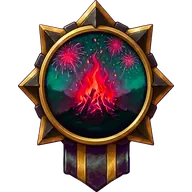
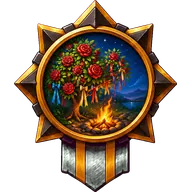
2.207.0: графика турецкого курса
Claude-Session: https://claude.ai/code/session_012FoTdB5qAwJN693kz9isgV

diff --git a/src/content/changelog.ts b/src/content/changelog.ts
@@ -7,6 +7,11 @@ export interface Release {
 // Новые версии сверху. Версия первой записи должна совпадать с package.json (проверяется тестом).
 export const CHANGELOG: Release[] = [
   {
+    version: '2.207.0',
+    date: '2026-10-16',
+    notes: ['Турецкий курс (пока закрыт): своя графика. Рисованные портреты 20 жителей эгейского города, Летописца, стражей и кузнеца Ахмета-уста, медальон меню с алым глазом и полумесяцем (золотой после Эликсира) и рисованные медали праздников: розовый куст с ленточками желаний и воздушный змей.'],
+  },
+  {
     version: '2.206.0',
     date: '2026-10-15',
     notes: ['Турецкий курс (пока закрыт): два праздника. В неделю Хыдырэллеза (начало мая) Нермин-ханым зовёт в сад: ленточка на ветке розы, желание, кольцо в кувшин и костёр. В неделю 23 апреля учительница Элиф приглашает на Детский праздник: Эфе на день становится директором школы, потом халай и воздушные змеи. У каждого праздника 12–13 слов, 8 фраз, миссия и тайная медаль.'],

diff --git a/src/components/NavBar.tsx b/src/components/NavBar.tsx
@@ -7,6 +7,8 @@ import eyeEsGold from '../assets/nav/eye-es-gold.webp';
 import eyeItGold from '../assets/nav/eye-it-gold.webp';
 import eyeEn from '../assets/nav/eye-en.webp';
 import eyeEnGold from '../assets/nav/eye-en-gold.webp';
+import eyeTr from '../assets/nav/eye-tr.webp';
+import eyeTrGold from '../assets/nav/eye-tr-gold.webp';
 import { LANG, type Lang } from '../lang';
 import { useSphinx } from '../store/sphinx';
 
@@ -27,6 +29,7 @@ const EYES: Partial<Record<Lang, { plain: string; gold: string }>> = {
   es: { plain: eyeEs, gold: eyeEsGold },
   it: { plain: eyeIt, gold: eyeItGold },
   en: { plain: eyeEn, gold: eyeEnGold },
+  tr: { plain: eyeTr, gold: eyeTrGold },
 };
 /** Медальон языка курса; после Эликсира — золотой (задача 8.3). Курс без своего медальона берёт испанский. */
 export const eyeOf = (gold: boolean) => (EYES[LANG] ?? EYES.es!)[gold ? 'gold' : 'plain'];

diff --git a/tests/e2e/story-tr.spec.ts b/tests/e2e/story-tr.spec.ts
@@ -344,3 +344,11 @@ for (const [id, day] of [
     await expect(page.getByTestId('festival-medal')).toContainText('получена');
   });
 }
+
+test('tr: свой медальон в меню и рисованные портреты жителей', async ({ page }) => {
+  await openCourse(page, 'tr');
+  await page.goto('./#/grammar');
+  await expect(page.getByTestId('nav-eye')).toHaveAttribute('src', /eye-tr(?!-gold)/);
+  await page.goto(`./#/scene/${encodeURIComponent('sc:cafe.1')}`);
+  await expect(page.getByTestId('npc-art').first()).toHaveAttribute('src', /hasan/);
+});

diff --git a/scripts/build-medal-art.py b/scripts/build-medal-art.py
@@ -1,6 +1,6 @@
 """Медали (промты — `docs/design/medals-prompt.md`): оправы ступеней `docs/design/medal-frames.png`, эмблемы линий
 `docs/design/medal-emblems.png` и тайные медали `docs/design/medal-secrets.png`, праздники английского курса —
-`docs/design/medal-secrets-en.png`.
+`docs/design/medal-secrets-en.png`, турецкого — `docs/design/medal-secrets-tr.png`.
 
 Листы нарисованы на пурпурном фоне (#FF00FF) сеткой: каждая медаль в своей ячейке (искры у книги и молнии — отдельные
 пятна, поэтому делим по ячейкам, а не по связным областям). Скрипт снимает фон и сохраняет в `src/assets/medals/`
@@ -27,6 +27,7 @@ LINES = ['words', 'streak', 'grammar', 'cartographer', 'friend', 'courier', 'bli
 SECRETS = ['saved-streak', 'flawless', 'midnight', 'labyrinth', 'sphinx', 'keeper',
            'festival-sanfermin', 'festival-tomatina', 'festival-ferragosto', 'festival-carnevale']
 SECRETS_EN = ['festival-bonfire', 'festival-carnival']
+SECRETS_TR = ['festival-hidrellez', 'festival-nisan']
 
 
 def keyed(path: Path):
@@ -100,6 +101,9 @@ def main():
         square(piece, by_height=True)[0].save(OUT / f'secret-{sid}.webp', 'WEBP', quality=80, method=6)
     # Праздники английского курса (2.186.0) — свой лист из двух медалей.
     for sid, piece in zip(SECRETS_EN, cells(DESIGN / 'medal-secrets-en.png', 2, 1)):
+        square(piece, by_height=True)[0].save(OUT / f'secret-{sid}.webp', 'WEBP', quality=80, method=6)
+    # Праздники турецкого курса (2.207.0).
+    for sid, piece in zip(SECRETS_TR, cells(DESIGN / 'medal-secrets-tr.png', 2, 1)):
         square(piece, by_height=True)[0].save(OUT / f'secret-{sid}.webp', 'WEBP', quality=80, method=6)
     print(json.dumps(frames))
 

diff --git a/scripts/cut-portraits.py b/scripts/cut-portraits.py
@@ -1,8 +1,8 @@
 """
 Портреты персонажей из листов docs/design/portraits-<язык>.jpg: 20 жителей мест, Летописец, четыре стража
-и кузнец. Испанский лист — версия 2.62.0, итальянский — 2.82.0, английский — 2.186.0. Вырезается внутренняя часть каждой рамки,
+и кузнец. Испанский лист — версия 2.62.0, итальянский — 2.82.0, английский — 2.186.0, турецкий — 2.207.0. Вырезается внутренняя часть каждой рамки,
 без золотой обводки и таблички с именем, в пропорциях игрового портрета 14:18, размер 168×216.
-Запуск: python3 scripts/cut-portraits.py [es|it|en] (без аргумента — все языки, нужен Pillow).
+Запуск: python3 scripts/cut-portraits.py [es|it|en|tr] (без аргумента — все языки, нужен Pillow).
 """
 from PIL import Image
 import os, sys
@@ -36,9 +36,17 @@ SHEETS={
     small_x=[(63,195),(222,350),(378,505),(530,657),(684,808),(836,962)],
     small_y=(1318,1455),
   ),
+  'tr':dict(
+    cols=[(122,283),(335,494),(540,700),(745,905)],
+    rows=[(68,238),(310,480),(555,725),(795,970),(1040,1218)],
+    names=[['hasan','fatma','mehmet','kemal'],['nermin','riza','selin','zeynep'],['elif','cemil','murat','yusuf'],
+           ['deniz','ismail','can','ebru'],['leyla','gul','burak','nihat']],
+    small_x=[(97,228),(252,367),(400,505),(533,643),(667,778),(808,930)],
+    small_y=(1290,1432),
+  ),
 }
 # Сдвиг центра по x для отдельных портретов, если лицо не по центру рамки.
-SHIFT={'es':{},'it':{},'en':{}}
+SHIFT={'es':{},'it':{},'en':{},'tr':{}}
 
 def cut(lang):
     s=SHEETS[lang]

diff --git a/scripts/build-nav-art.py b/scripts/build-nav-art.py
@@ -117,3 +117,5 @@ if __name__ == '__main__':
     eyes('nav-wow-eyes.png', ['eye-es', 'eye-it', 'eye-es-gold', 'eye-it-gold'])
     # Английский (2.186.0) — свой лист из двух медальонов: обычный и золотой.
     eyes('nav-wow-eyes-en.png', ['eye-en', 'eye-en-gold'])
+    # Турецкий (2.207.0) — тоже свой лист.
+    eyes('nav-wow-eyes-tr.png', ['eye-tr', 'eye-tr-gold'])

diff --git a/CLAUDE.md b/CLAUDE.md
@@ -27,7 +27,7 @@ React 19, Vite 8 (rolldown), TypeScript, Tailwind v4, Zustand, Dexie (IndexedDB)
 ## Устройство
 
 - `src/lang.ts` — язык курса (`es` | `it` | `en` | `tr`, `LANG_IDS`) и его свойства `L` / `LANGS`, собранные из профилей (задача 16.6). Закрытый курс (`released: false` в профиле: английский с 2.169.0 по 2.184.0, задачи 17.1–17.9, с 2.185.0 открыт; турецкий с 2.187.0, этап 18) не виден в выборе языка и в предложении второго языка (`RELEASED_LANGS`), тесты полноты контента его пропускают. Профиль — `src/langs/<язык>/index.ts` (`LangProfile` в `src/langs/types.ts`, реестр `PROFILES` в `src/langs/index.ts`): голоса, база, `variety` — какой вариант языка в курсе (испанский — язык Испании с vosotros; переключатель на латиноамериканский убран в 2.148.0, задача 12.7), артикли, род (`gender`; без рода у существительного не нужен `gender`) и проверка артикля по роду `articleIssue`, буквы с диакритикой `letters`, отдельные буквы `distinct` (турецкие ı и İ: замена на латинскую в ответе — ошибка, а не «почти»), строчные по правилам языка `lower` (турецкое I → ı, İ → i: `lowerText`, `normalizeIn` в `answer.ts`), клавиши испытаний `examKeys`, правила склейки ответа `answerRules`, сокращения `contractions` (английское «don't» = «do not»: `expandContractions` в `normalize` и в `tokens` скриптов), равноправное написание `spelling` (британское и американское: сравнение ответов идёт через `canon` в `answer.ts`, только своего языка), ошибки текста для валидатора `textIssues` (английские a/an), разбор словоформы на леммы `analyze` (турецкий: `src/langs/tr/morph.ts` — гармония гласных, озвончение, формы имени и глагола, разбор аффиксов по позициям), кузница `verbs` (времена с уроком открытия, лица, генератор форм — `src/langs/<язык>/verbs.ts`, допустимые поля глагола), виды Звонницы `pairKinds`, праздники с правилом недели, обращение к путнику `hero`, признаки «ты/вы» `you`, подписи районов, фразы проверки голоса, `heroKey`, `reminderBase`. Профиль — данные и чистые функции, из `src/domain` и `src/content` только типы (иначе циклы через `lang.ts`). Проверка полноты — `src/langs/profile.test.ts`. Картинки по языку и виртуальные модули остаются у компонентов. Язык читается из `localStorage['eslacity.lang']` при запуске, смена языка перезагружает приложение.
-- `src/content/<язык>/words/<локация>.json` — слова (поле `es` исторически означает «форма на изучаемом языке» для любого языка). `src/content/<язык>/grammar/<район>/*.json` — уроки. У каждого упражнения постоянный `id` вида `<lessonId>.<n>`: новым упражнениям его проставляет `npx tsx scripts/add-exercise-ids.ts`, существующие id не менять. `src/content/<язык>/npcs.json` — жители мест (по одному на место, свои в каждом языке, `src/content/npcs.ts`), портрет рисуется кодом из поля `look` (`src/components/npcArt.ts`), а если в `look` есть `portrait` — рисованной картинкой `src/assets/portraits/<язык>/<portrait>.webp` (`NpcPortrait`, `portraitUrl`; на картах города и странствий всегда пиксельная фигурка, `pixel`). Портреты всех трёх языков режет `scripts/cut-portraits.py` из `docs/design/portraits-<язык>.jpg` (координаты рамок у каждого листа свои, промты — `docs/design/portraits-<язык>-prompt.md`), наличие картинки проверяет `validatePortraits`. `src/content/<язык>/scrolls/<глава>.json` — свитки земель, общие слова главы без места (id `scroll1.<slug>`, грузятся как «место» `scroll1`, в индексе `SCROLL_WORDS`). `src/content/<язык>/chronicler.json` — Летописец, житель без места: просит учить слова свитка на карте странствий, его поручения — слова свитков (`npcFor`, `SCROLL_PLACE`). `src/content/<язык>/phrases/<место>.json` — готовые фразы ситуации для миссий: id `ph:<место>.<slug>`, необязательные слова в скобках (`src/domain/phrase.ts`), в словарный запас не входят; валидатор проверяет, что слова фразы есть в словаре мест того же уровня или ниже (леммы из `scripts/data`, `uncoveredWords` в `scripts/vocab-lib.ts`). Схема: `src/content/schema.ts`. Закрытый курс (`released: false`; так писался английский, дальше — турецкий и португальский) валидатор проверяет по готовым файлам (`partialChecks` в `scripts/validate-content.ts`: жители, Летописец, стражи пяти глав, кузница, Звонница, портреты, тексты, а с 17.3 и слова мест и свитков — `partialWordChecks`: поля, редкие слова, CEFR, одинаковые переводы, с 17.5 — фразы, сцены, миссии и развилки, `partialStoryChecks`: развилок не меньше двух требуют только главы, у которых уже есть миссии следующей главы; с 17.8 — письма и записки в обоих родах путника и Сфинкс, `letterChecks` и `sphinxChecks`, с 17.9 — пролог и нить глав в обоих родах, книги, слухи, дневник и праздники, `prologueChecks`, `threadChecks`, `bookChecks`, `rumorDiaryChecks`, `partialFestivalChecks`, если файлы есть); отчёт `npm run vocab` для курса без уроков считает покрытие одними словами. Валидатор: `src/content/validate/` (с 2.166.0, задача 16.5: файл на вид контента — `words.ts`, `grammar.ts`, `scenes.ts`, `missions.ts`, `sphinx.ts`…, общее — `common.ts`, вход — `index.ts`) и `scripts/validate-content.ts`. Файлы контента всех видов и языков — в реестре `src/content/registry.ts` (`loaders(вид)` — ключ файла → загрузчик языка курса, `loader(вид, ключ)`, `eager(вид)` для маленьких файлов в основном чанке); загрузчики своих `import.meta.glob` не заводят, новый вид или язык — строка в реестре.
+- `src/content/<язык>/words/<локация>.json` — слова (поле `es` исторически означает «форма на изучаемом языке» для любого языка). `src/content/<язык>/grammar/<район>/*.json` — уроки. У каждого упражнения постоянный `id` вида `<lessonId>.<n>`: новым упражнениям его проставляет `npx tsx scripts/add-exercise-ids.ts`, существующие id не менять. `src/content/<язык>/npcs.json` — жители мест (по одному на место, свои в каждом языке, `src/content/npcs.ts`), портрет рисуется кодом из поля `look` (`src/components/npcArt.ts`), а если в `look` есть `portrait` — рисованной картинкой `src/assets/portraits/<язык>/<portrait>.webp` (`NpcPortrait`, `portraitUrl`; на картах города и странствий всегда пиксельная фигурка, `pixel`). Портреты всех языков режет `scripts/cut-portraits.py` из `docs/design/portraits-<язык>.jpg` (координаты рамок у каждого листа свои, промты — `docs/design/portraits-<язык>-prompt.md`), наличие картинки проверяет `validatePortraits`. `src/content/<язык>/scrolls/<глава>.json` — свитки земель, общие слова главы без места (id `scroll1.<slug>`, грузятся как «место» `scroll1`, в индексе `SCROLL_WORDS`). `src/content/<язык>/chronicler.json` — Летописец, житель без места: просит учить слова свитка на карте странствий, его поручения — слова свитков (`npcFor`, `SCROLL_PLACE`). `src/content/<язык>/phrases/<место>.json` — готовые фразы ситуации для миссий: id `ph:<место>.<slug>`, необязательные слова в скобках (`src/domain/phrase.ts`), в словарный запас не входят; валидатор проверяет, что слова фразы есть в словаре мест того же уровня или ниже (леммы из `scripts/data`, `uncoveredWords` в `scripts/vocab-lib.ts`). Схема: `src/content/schema.ts`. Закрытый курс (`released: false`; так писался английский, дальше — турецкий и португальский) валидатор проверяет по готовым файлам (`partialChecks` в `scripts/validate-content.ts`: жители, Летописец, стражи пяти глав, кузница, Звонница, портреты, тексты, а с 17.3 и слова мест и свитков — `partialWordChecks`: поля, редкие слова, CEFR, одинаковые переводы, с 17.5 — фразы, сцены, миссии и развилки, `partialStoryChecks`: развилок не меньше двух требуют только главы, у которых уже есть миссии следующей главы; с 17.8 — письма и записки в обоих родах путника и Сфинкс, `letterChecks` и `sphinxChecks`, с 17.9 — пролог и нить глав в обоих родах, книги, слухи, дневник и праздники, `prologueChecks`, `threadChecks`, `bookChecks`, `rumorDiaryChecks`, `partialFestivalChecks`, если файлы есть); отчёт `npm run vocab` для курса без уроков считает покрытие одними словами. Валидатор: `src/content/validate/` (с 2.166.0, задача 16.5: файл на вид контента — `words.ts`, `grammar.ts`, `scenes.ts`, `missions.ts`, `sphinx.ts`…, общее — `common.ts`, вход — `index.ts`) и `scripts/validate-content.ts`. Файлы контента всех видов и языков — в реестре `src/content/registry.ts` (`loaders(вид)` — ключ файла → загрузчик языка курса, `loader(вид, ключ)`, `eager(вид)` для маленьких файлов в основном чанке); загрузчики своих `import.meta.glob` не заводят, новый вид или язык — строка в реестре.
 - Виды упражнений грамматики (все пять базовых есть в каждом уроке, это требует валидатор): `choose`, `gap`, `truefalse` и продуктивные `build` (собрать предложение из плиток, лишние в `extra`, другой порядок в `alt`) и `type` (вписать форму в `___`, `hint`, `alt`). Проверка — `checkGrammar` в `src/domain/grammar.ts` (форма без ударения — «почти», опечатки не прощаются: `checkForm`), показ — `GrammarItemView` в `src/components/exercises/GrammarItem.tsx`, общий для урока, повторения правил и стражей. Лишняя плитка не должна собирать другую верную фразу, у ввода подсказка снимает второй ответ, равноправные формы — в `alt`; `src/content/grammarProductive.test.ts` проверяет это на всём контенте, `tests/e2e/grammar.spec.ts` проходит каждый урок целиком (английский — `grammar-en.spec.ts`, закрытый турецкий — `grammar-tr.spec.ts`: уроки открываются напрямую, без пролога и города, вход — `openCourse(page, язык)` в фикстурах; сцены и миссии английского — `story-en.spec.ts`, `openEnglish`, турецкого — `story-tr.spec.ts`). Виды уровня C1 (задача 7.3, необязательные): `transform` (пересказ с ключевым словом `keyword`), `cloze` (текст с пропусками, у каждого свой список `answers`), `fix` (найти слово `wrong` и вписать форму), `register` (та же мысль в регистре `to`: выбор `options` или плитки `extra`), `combine` (связать две фразы связкой `connector`), `paraphrase` (выбор того же смысла). Проверка — там же в `checkGrammar`, ввод без букв ответа в испытаниях (`TYPED_KINDS`), валидатор — `checkC1Exercise`. Сквозной `answerGrammar` находит задание по `data-ex`. Район C1 (глава V, задачи 7.4–7.5): 20 уроков `src/content/<язык>/grammar/c1/`, в каждом не меньше трёх видов C1; страж главы V — Хозяин Эха.
 - План словаря: `src/content/vocabPlan.ts` (числа из `docs/GAME.md`). Частотные списки лемм лежат в `scripts/data/` (строит `scripts/build-freq.ts`, у турецкого — `scripts/build-freq-tr.ts` разбором аффиксов по словарю Zemberek; источники и лицензии в шапке файлов), в сборку не попадают. У языка с `analyze` (турецкий) скрипты словаря ищут лемму разбором аффиксов, а не по таблице форм (`lemmaCandidates`, `isKnownWord`, `glossIndex` в `scripts/vocab-lib.ts`; `tokens(text, lang)` — строчные по правилам языка, у турецкого без циркумфлекса: частоты из субтитров пишут hala и hikaye, курс — hâlâ и hikâye; пример слова у такого языка проверяется разбором: kitabı — форма kitap, `checkWord` в `validate/words.ts`). После добавления слов запускать `npm run vocab`, он пересобирает `docs/vocab/<язык>.md`: покрытие, медиана ранга по уровням, доля первой тысячи к концу каждой главы, списки «частые позже главы II» и «редкие на уровнях 1–4» (задача 12.1). Поправки к частотному списку — `scripts/data/skip-<язык>.txt` (`applySkips`, `applySkipsToForms`: шум выбрасывается, ошибки лемматизации сводятся к своей лемме). Слово уровней 1–4 дальше ранга 5000 (`RARE_RANK`, ранг — `wordRank`, у словосочетаний его нет) поднимается на уровень 5–6 или помечается `topical: true`, тематических не больше трёх на урок (`rarityIssues` в `scripts/vocab-lib.ts`; проверка работает для всех мест, ранги — по очищенному списку, как в отчёте). Слова переезжают между уровнями только сменой `level` и `cefr`, id не меняется; уровень 6, где уже есть выученные слова, не закрывается (`isWordLevelOpen`).
 - `vite.config.ts` строит виртуальные модули `virtual:grammar-index` (индекс уроков для карты) и `virtual:word-index/<язык>` (id слов по местам и уровням для пути; с 2.165.0 свой модуль на язык, `src/content/wordIndex.ts` берёт индекс языка курса через `await` на верхнем уровне) и режет уроки на чанки по языку и району. Код по экранам (задача 16.2): в `App.tsx` сразу грузятся только главная и уроки слов и фраз, остальные экраны — `React.lazy` через `screen(...)` с `Suspense` и `Loading`; список изменений `AboutApp` грузит своим чанком. Экран, который нужен главной или сцене главы, не импортируют из другого экрана: общее выносится (`src/lib/chronicle.ts` — нить и книги для бейджа Летописи, `src/components/LandArt.tsx` — рисунки земель). Главный чанк меньше 350 КБ — проверяет `loading.spec.ts`.
@@ -72,7 +72,7 @@ React 19, Vite 8 (rolldown), TypeScript, Tailwind v4, Zustand, Dexie (IndexedDB)
 - Звонница — минимальные пары (задача 10.2): `src/content/<язык>/pairs.json` (звонарь `ringer` того же вида, что кузнец, и противопоставления `contrasts`: `kind` `swap` с полем `swap`, `stress`, `double` или `caps` — английское ударение без знаков: ударный слог заглавными, REcord / reCORD, у обоих слов `say` с окружением «a record» / «to record»; турецкий циркумфлекс hala / hâlâ — вид `stress`; виды языка — `pairKinds` в профиле; пары `[слово, слово]`), загрузка `src/content/pairs.ts`, логика `src/domain/minimalPairs.ts` (`pairTasks`, `pairVerdict`, `retryTask`, `pairIssue`), валидатор `validatePairs` (пара различается ровно тем, что заявлено, не меньше `PAIRS_MIN` пар; общая проверка мастера без места — `checkMaster`). Экран `/bells` (`src/screens/Bells.tsx`), вход — карточка на экране грамматики под кузницей. Без звука (`listeningEnabled`) звонить нельзя. Ответы в журнале — режим `pairs`, id `mp:<противопоставление>.<n>` (`isPairId`, не слово); верные идут в `recordListening` (линия «Слушатель»). Сквозной тест — `bells.spec.ts`.
 - Ответ голосом (задача 10.3): `src/audio/speechInput.ts` (`voiceInputSupported`: есть `SpeechRecognition`, сеть и не APK; `listenAnswer` — до пяти вариантов на языке `recognitionLang`; запрет микрофона прячет кнопку до перезапуска), выбор варианта — `bestAlternative` в `src/domain/voiceAnswer.ts` по проверке задания, кнопка `VoiceAnswer` (`src/components/VoiceAnswer.tsx`, следит за `online`/`offline`). Стоит у ввода в миссии (`HeroTurn`, проверка `answerNode`) и в испытаниях (`TypeAnswer` и `PhraseType` с `exam`). Услышанное только встаёт в поле, проверку запускает игрок. Сквозной тест — `voice.spec.ts` (заглушка `SpeechRecognition`, `setOffline`).
 - Напоминания (задача 10.4): настройки `reminderOn`, `reminderTime`; расписание и текст — `src/domain/reminder.ts` (`reminderSlots`: `REMINDER_DAYS` дней вперёд, сегодня только если цель дня не выполнена; `reminderText` от Летописца), на устройстве — `src/lib/reminder.ts` (`reminderSupport`: `native` | `periodic` | `none`; `enableReminder`, `reminderStatus`, `syncReminder`, `watchReminder` из `bootstrap` пересчитывает расписание при выполненной цели и смене настроек). APK — плагин `@capacitor/local-notifications` (номера уведомлений по языку, значок `ic_stat_eslacity` из `scripts/build-icons.py`, `capacitor.config.ts`). Сайт — `public/reminder-sw.js`, подключён к service worker через workbox `importScripts`: по `periodicsync` читает расписание из кэша `eslacity-reminder` (запись на язык) и показывает наступившее, опоздавшее больше чем на 12 часов пропускает. Раздел «Напоминание» в настройках — `ReminderCard`. Тесты: `src/lib/reminderSw.test.ts` (service worker в песочнице), сквозной `reminder.spec.ts`.
-- Праздники (задача 10.5): `src/domain/festival.ts` (`FESTIVALS` собирается из `festivals` профилей языков: хозяин — здание города, цвета флажков, знак, тайная медаль, неделя `week(year)`; `festivalWeek`: Сан-Фермин 6–14 июля, Томатина вокруг последней среды августа, Феррагосто 12–18 августа, Карнавал — шесть дней до Жирного вторника по Пасхе; английские — Ночь костров 2–8 ноября и карнавал в Ноттинг-Хилле с четверга до среды вокруг последнего понедельника августа; турецкие — Хыдырэллез 2–8 мая и Детский праздник 20–26 апреля, их медали пока собирает из готовых `scripts/build-tr-festival-medals.py`; `activeFestival`, `festivalsDone` — миссия, пройденная в неделю праздника; `placePath`). Контент — `src/content/<язык>/festivals/<id>.json` (`intro`, `about`, `names` — имена собственные для проверки словаря, слова `fest-<id>.<slug>` уровня 1, фразы `ph:fest-<id>.<slug>`, миссия `ms:fest-<id>.2` сложности главы II, `FESTIVAL_CHAPTER`). Праздник — «место» `fest-<id>`: его слова, фразы и миссию находят обычные загрузчики (`content/index.ts`, `phrases.ts`, `missions.ts`), хозяин — `npcFor`. Экран `/festival/:id` (`src/screens/Festival.tsx`), приглашение на главной, флажки и знак на карте, календарь в профиле — `src/components/FestivalBits.tsx`. Тайные медали праздников — в `SECRETS` с полем `lang` (видны только в своём курсе), счётчик `festivals` в `MedalCounters`; картинки английских (с 2.186.0 рисованные) режет `scripts/build-medal-art.py` из своего листа `docs/design/medal-secrets-en.png`. Валидатор `validateFestivals` (общие проверки фраз и миссий с `places`, свой словарь покрытия с праздничными словами). Сквозной тест — `festival.spec.ts` (`page.clock`).
+- Праздники (задача 10.5): `src/domain/festival.ts` (`FESTIVALS` собирается из `festivals` профилей языков: хозяин — здание города, цвета флажков, знак, тайная медаль, неделя `week(year)`; `festivalWeek`: Сан-Фермин 6–14 июля, Томатина вокруг последней среды августа, Феррагосто 12–18 августа, Карнавал — шесть дней до Жирного вторника по Пасхе; английские — Ночь костров 2–8 ноября и карнавал в Ноттинг-Хилле с четверга до среды вокруг последнего понедельника августа; турецкие — Хыдырэллез 2–8 мая и Детский праздник 20–26 апреля; `activeFestival`, `festivalsDone` — миссия, пройденная в неделю праздника; `placePath`). Контент — `src/content/<язык>/festivals/<id>.json` (`intro`, `about`, `names` — имена собственные для проверки словаря, слова `fest-<id>.<slug>` уровня 1, фразы `ph:fest-<id>.<slug>`, миссия `ms:fest-<id>.2` сложности главы II, `FESTIVAL_CHAPTER`). Праздник — «место» `fest-<id>`: его слова, фразы и миссию находят обычные загрузчики (`content/index.ts`, `phrases.ts`, `missions.ts`), хозяин — `npcFor`. Экран `/festival/:id` (`src/screens/Festival.tsx`), приглашение на главной, флажки и знак на карте, календарь в профиле — `src/components/FestivalBits.tsx`. Тайные медали праздников — в `SECRETS` с полем `lang` (видны только в своём курсе), счётчик `festivals` в `MedalCounters`; картинки английских и турецких режет `scripts/build-medal-art.py` из своих листов `docs/design/medal-secrets-en.png` и `medal-secrets-tr.png`. Валидатор `validateFestivals` (общие проверки фраз и миссий с `places`, свой словарь покрытия с праздничными словами). Сквозной тест — `festival.spec.ts` (`page.clock`).
 - Отчёты об ошибках (задача 11.1): таблица `reports` (`ReportRecord`, причины `REPORT_REASONS`, текст для копирования `formatReports` в `src/domain/report.ts`; запись и чтение — `src/db/reports.ts`). Кнопка `ReportButton` (окно в портале на `document.body`: лист итога ответа сдвигается `transform`-ом) стоит в `FeedbackSheet`, если у итога есть `itemId` (его ставят `LessonPlayer`, `PhraseRun`, `RuleReview`, `GrammarLesson`, `TrialPlayer`, кузница, Звонница), в разговоре (`<сцена>#<номер реплики>`) и в миссии (`<миссия>#<узел>`). Новое задание с итогом — сразу с `itemId`. Отчёты в резервной копии (`OPTIONAL`), раздел в настройках — `ReportsCard`. Сквозной тест — `report.spec.ts`.
 - Правила перевода (задача 15.3): `docs/TRANSLATION.md`. `translationIssues` в `src/domain/translation.ts` (из `scripts/validate-content.ts`, по всем файлам контента) сверяет «ты/вы» перевода с оригиналом у каждой пары `es`/`ru` и `fem` (`sourceAddress`, `ruAddress`; решает оригинал, а не `register` жителя) и типографику русских строк (`typographyIssues`: «ёлочки», `NO_YO`). Новый перевод пишется по этим правилам.
 - Вычитка носителем (задача 11.2): `scripts/export-review.ts` выгружает строки на изучаемом языке в `review/<язык>/<вид>.csv` (в git не попадает). Строка выгрузки — `extractRows` в `scripts/review-lib.ts`: поля по `TARGET_KEYS` (у мудрости Сфинкса ещё `title`), русские и служебные ветки — `SKIP_KEYS`, строка с кириллицей без латиницы не выгружается; адрес — `file` и `path` (`getAt`/`setAt`), тест проверяет, что адрес каждой строки ведёт к её тексту. Новые поля контента на изучаемом языке добавлять в `TARGET_KEYS`. Загрузка правок (задача 11.3) — `scripts/import-review.ts`: `fixesFromCsv`, `applyFixes` (правка — только если текст в контенте тот же, что видел носитель), замена точечная по месту строки в тексте файла (`locateStrings`), файлы целиком не переписываются; потом отчёт `review/<язык>/applied-*.md`, валидатор и тесты контента. Инструкция носителю — `docs/REVIEW.md`.
@@ -81,7 +81,7 @@ React 19, Vite 8 (rolldown), TypeScript, Tailwind v4, Zustand, Dexie (IndexedDB)
 - Загрузка и переходы (задача 14.6): пока экран ждёт контент, он возвращает `<Loading />` из `src/components/ui.tsx` (внутри экрана — `inline`), а не `null`; появляется через 250 мс. `Screen` проявляется классом `screen-in` (только прозрачность: `transform` сломал бы `position: fixed` у листа итога), при `prefers-reduced-motion` без анимации. Главная предзагружает место «Продолжить» (`stepPlace` в `next.ts`) и следующий урок грамматики. Сквозной тест — `loading.spec.ts`.
 - Настройки по разделам (задача 14.4): `/settings` — оглавление, `/settings/<раздел>` — экран раздела (`SettingsScreen` в `src/screens/Settings.tsx`). Разделы и порядок — `SETTINGS_SECTIONS` в `src/domain/settingsSections.ts` (`hero`, `learning`, `sound`, `reminder`, `language`, `data`, `app`, `reports`), подпись выбранного под названием — `settingsHint`. Новая настройка встаёт в подходящий раздел (`SECTION_BODY`); сквозные тесты идут прямо в раздел (`goto('./#/settings/<раздел>')`), оглавление проверяет `settings.spec.ts`.
 - Приложение для Android (APK, с 2.113.0): Capacitor (`capacitor.config.ts`, проект `android/`, создан `npx cap add android`), внутри та же сборка `dist/`. Собирает его GitHub Actions задачей `android` параллельно с тестами (`npx cap sync android`, `./gradlew assembleRelease`), задача `package` кладёт его на сайт как `eslacity.apk`; ссылка — раздел «Приложение для Android» в настройках. Локально Android SDK нет (dl.google.com закрыт), проверка сборки — по прогону в CI. `src/lib/native.ts`: `NATIVE`, `initNative` (без `viewport-fit=cover`, кнопка «Назад»), `saveJsonFile` (резервная копия в «Документы/Eslacity», WebView не скачивает файлы). В приложении нет service worker, новая версия ищется по `version.json` сайта и сравнивается по номеру версии (`remoteIsNewer`: сайт и APK собираются разными задачами CI, время сборки у них разное), «Обновить» — свой плагин `ApkUpdatePlugin.java` (`installApk` в `native.ts`): скачивает APK в кэш и открывает установщик, без разрешения на установку открывает настройки. Озвучка в приложении — плагин `@capacitor-community/text-to-speech` (в WebView нет Web Speech), ветка `NATIVE` в `tts.ts`. Версия APK из `package.json` (versionCode = мажор·10000 + минор·100 + патч). Подпись (с 2.123.0, задача 16.1): gradle собирает APK без подписи, подписывает шаг «Подпись APK» в CI ключами из секретов GitHub (`ANDROID_KEYSTORE_B64`, `ANDROID_KEYSTORE_PASSWORD`, `ANDROID_OLD_KEYSTORE_B64`, `ANDROID_OLD_KEYSTORE_PASSWORD`): новый ключ `eslacity2026` с цепочкой от старого `eslacity` (APK Signature Scheme v3, `--rotation-min-sdk-version 28`, поэтому minSdk 28), потом `apksigner verify --print-certs` и `apksigner lineage` сверяют отпечатки. Ключи в репозиторий не класть (`android/.gitignore`), цепочку не менять, иначе обновление не встанет поверх; инструкция — `docs/ANDROID.md`. Иконки и заставка Android — `scripts/build-icons.py`.
-- `src/assets/` — картинки города и меню. Нижнее меню (задача 14.2, рисованное с 2.157.0): `NavBar` — ряд из четырёх каменных ячеек `src/assets/nav/nav-strip.webp` (фон блока `nav-art`) и медальон с глазом в гнезде над рядом (`eye-<язык>.webp`, после Эликсира `eye-<язык>-gold.webp`, `eyeOf`: курс без своего медальона берёт испанский; он же крупно в `/vault`), подписи ячеек рисует код (`nav-label`, Tiny5 12 px, не растёт с размером текста). Картинки и геометрию `nav-strip.json` (ячейки, внутренние панели — по ним центрируются подписи, полоса подписи, гнездо) строит `scripts/build-nav-art.py` из `docs/design/nav-wow-strip.png`, `nav-wow-eyes.png` и `nav-wow-eyes-en.png` (у английского свой лист из двух медальонов) (промт — `docs/design/nav-wow-prompt.md`). Высота ряда — `--nav-h` в `src/index.css` (во всю ширину экрана в пропорции картинки, не выше 14% высоты), место под меню на экранах с вкладками — `--nav-space`.
+- `src/assets/` — картинки города и меню. Нижнее меню (задача 14.2, рисованное с 2.157.0): `NavBar` — ряд из четырёх каменных ячеек `src/assets/nav/nav-strip.webp` (фон блока `nav-art`) и медальон с глазом в гнезде над рядом (`eye-<язык>.webp`, после Эликсира `eye-<язык>-gold.webp`, `eyeOf`: курс без своего медальона берёт испанский; он же крупно в `/vault`), подписи ячеек рисует код (`nav-label`, Tiny5 12 px, не растёт с размером текста). Картинки и геометрию `nav-strip.json` (ячейки, внутренние панели — по ним центрируются подписи, полоса подписи, гнездо) строит `scripts/build-nav-art.py` из `docs/design/nav-wow-strip.png`, `nav-wow-eyes.png`, `nav-wow-eyes-en.png` и `nav-wow-eyes-tr.png` (у английского и турецкого свои листы из двух медальонов) (промт — `docs/design/nav-wow-prompt.md`). Высота ряда — `--nav-h` в `src/index.css` (во всю ширину экрана в пропорции картинки, не выше 14% высоты), место под меню на экранах с вкладками — `--nav-space`.
 - Иконки приложения и значок вкладки (`public/icons/*.png`, `public/favicon-32.png`, `favicon-16.png`) режет `scripts/build-icons.py` из `docs/design/app-icon.jpg` (медальон с глазом); иконка под маску — картинка целиком, медальон в безопасной зоне.
 
 ## Правила

diff --git a/docs/ROADMAP.md b/docs/ROADMAP.md
@@ -1656,6 +1656,7 @@
 | 2026-10-12 | 17.1 профиль английского | 2.169.0 | `src/langs/en` (закрыт, `released: false`): артикли a/an/the без рода, a/an по звуку в валидаторе (`textIssues`), сокращения как полные формы, британское и американское написание (`canon`), формы -s/-ed/-ing и неправильные глаголы (`past`, `pp`, `dbl`); частотный список и леммы en (7000 лемм), `skip-en`, `risky-en`; уроки открытия времён кузницы — id по плану 17.4 |
 | 2026-10-12 | 17.2 город и жители английского | 2.170.0 | 20 жителей, Летописец, 5 стражей, кузнец Гарет (76 глаголов, глаголы состояния без Continuous — `stative`), звонарь Агнес (ship/sheep, th/s, v/w, cat/cut, ударение REcord/reCORD — новый вид `caps` с `say`); full/fool заменено на cat/cut: пары не строятся заменой букв; валидатор проверяет закрытый курс без слов по готовым файлам; промт `portraits-en-prompt.md` |
 | 2026-10-12 | 17.3 слова глав I–II английского | 2.171.0 | 960 слов мест (20 мест × 4 уровня × 12) и свитки I (87) и II (181), всего 1228; британские слова, редкие бытовые — `topical`; покрытие первой тысячи словами 68%, до 80% к концу главы II — грамматикой в 17.4; валидатор проверяет слова закрытого курса, отчёт `docs/vocab/en.md` без уроков; шум субтитров и американское написание в `skip-en.txt` |
+| 2026-10-16 | 18.9 графика турецкого курса | 2.207.0 | рисованные портреты (лист `portraits-tr.jpg`, 26 портретов), медальоны меню `eye-tr` и медали праздников из своих листов; временный скрипт медалей удалён |
 | 2026-10-15 | 18.9 праздники турецкого | 2.206.0 | Хыдырэллез (дом, Нермин-ханым, неделя 2–8 мая) и Детский праздник 23 апреля (школа, Элиф, 20–26 апреля): слова, фразы, миссия, тайные медали |
 | 2026-10-15 | 18.9 книги, слухи и дневник турецкого | 2.205.0 | 20 книг Летописца (по 4 на главу, незнакомых слов не больше 3%), 20 слухов, 31 запись дневника |
 | 2026-10-15 | 18.9 пролог и нить глав турецкого | 2.204.0 | пролог с привратником Османом (merhaba, teşekkür ederim, güle güle), 15 сцен Летописца (начало, середина и развязка каждой главы) и по 6 записок конца дня на главу |

diff --git a/docs/design/portraits-tr-prompt.md b/docs/design/portraits-tr-prompt.md
@@ -2,7 +2,7 @@
 
 Лист устроен как у других языков: 26 портретов, сетка 5×4 для жителей и нижний ряд из шести (Летописец, четыре стража, кузнец), лист вертикальный 2:3 (как 1024×1536). Так `scripts/cut-portraits.py` режет его тем же порядком (`SMALL`: cronista, guardian1–4, smith), координаты рамок снимаются по готовому листу. Хозяина Эха (страж главы V), звонарку Севим и привратника пролога на листе нет, как и у других языков.
 
-Пока листа нет, портреты рисует код по полю `look` (`npcArt.ts`). Готовый лист кладётся в `docs/design/portraits-tr.jpg`. Дальше: координаты в `SHEETS['tr']` скрипта, `python3 scripts/cut-portraits.py tr`, у персонажей в `look` появляется `portrait` (имя файла: id жителя, `cronista`, `guardian1`–`guardian4`, `smith`).
+С 2.207.0 лист готов: `docs/design/portraits-tr.jpg`, координаты рамок — `SHEETS['tr']` в `scripts/cut-portraits.py`, у персонажей в `look` стоит `portrait` (id жителя, `cronista`, `guardian1`–`guardian4`, `smith`).
 
 Город — эгейский: белые и охристые каменные дома, пристань с паромом на острова, чайная у воды, субботний базар, пекарня с симитами, платаны, герань на балконах, рыбацкие лодки. Земли за городом — те же, что в сюжете других языков: башня на горном перевале, белый город в пустыне, лес шёпотов, Лабиринт Эха.
 

diff --git a/docs/design/medals-prompt.md b/docs/design/medals-prompt.md
@@ -166,7 +166,7 @@ readable at 64x64 pixels on a phone.
 
 ## 3б. Праздничные медали турецкого курса (с 2.206.0)
 
-Пока обе медали собирает из готовых `scripts/build-tr-festival-medals.py`: костёр Ночи костров в розово-зелёной гамме и барабан карнавала в цветах флага. Рисованный лист — `docs/design/medal-secrets-tr.png`, генерировать с приложенным образцом `docs/design/medal-secrets-en.png`, чтобы оправа и масштаб совпали.
+С 2.207.0 обе медали рисованные, лист — `docs/design/medal-secrets-tr.png`, режет его `scripts/build-medal-art.py` (`SECRETS_TR`). До этого их собирал из готовых временный скрипт. Лист, генерировать с приложенным образцом `docs/design/medal-secrets-en.png`, чтобы оправа и масштаб совпали.
 
 | Медаль | Праздник | Сцена в центре |
 |---|---|---|

diff --git a/docs/design/nav-wow-prompt.md b/docs/design/nav-wow-prompt.md
@@ -107,7 +107,7 @@ No text, no letters, no numbers, no shadow on the background. Do not use magenta
 
 ## Турецкий курс: медальоны с глазом
 
-Пока своего медальона у турецкого нет, меню берёт испанский (`eyeOf`). Лист из двух медальонов, как у английского, генерировать с приложенным образцом `docs/design/nav-wow-eyes.png`.
+С 2.207.0 медальоны готовы: `eye-tr.webp` и `eye-tr-gold.webp`, лист `docs/design/nav-wow-eyes-tr.png`. Лист из двух медальонов, как у английского, генерировать с приложенным образцом `docs/design/nav-wow-eyes.png`.
 
 ```
 Sheet of 2 round UI medallions for a mobile fantasy RPG, in the hand-painted stylized art style of World of
